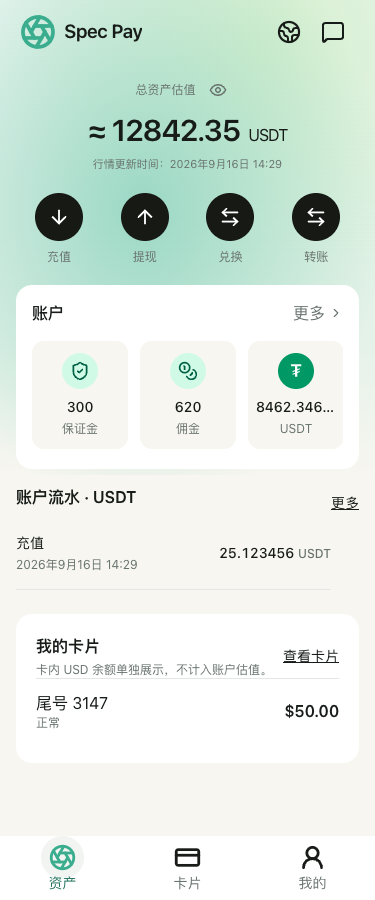
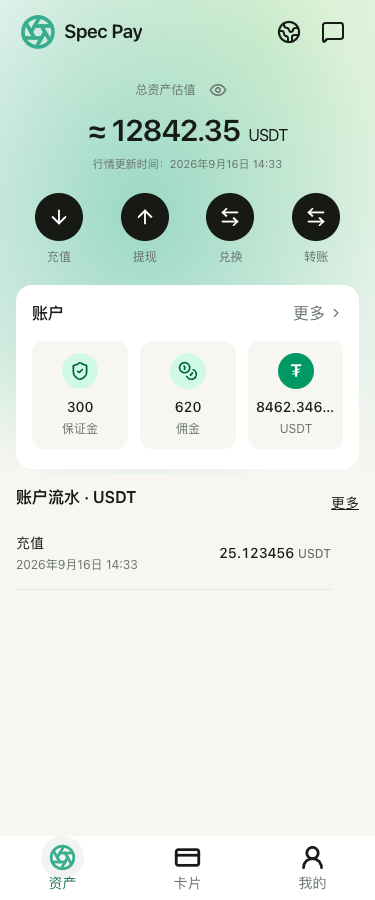
ui: remove card summary from asset homepage

diff --git a/resources/js/pages/user/Dashboard.tsx b/resources/js/pages/user/Dashboard.tsx
@@ -2,7 +2,7 @@ import { AssetCenter, type AssetOverview } from '@/components/user/AssetCenter';
 import { systemMoney } from '@/lib/system-money';
 import { t, useClientTranslation } from '@/i18n';
 import { Head, Link } from '@inertiajs/react';
-import { ArrowUpRight, ChevronRight, CreditCard } from 'lucide-react';
+import { ChevronRight } from 'lucide-react';
 import { UserBalanceHero } from '@/components/user/UserBalanceHero';
 import { UserActivityList } from '@/components/user/UserActivityList';
 import { walletActivityItems, type WalletActivity } from '@/lib/wallet-activity';
@@ -25,11 +25,6 @@ type WalletState = {
 };
 type Props = {
     assetOverview?: AssetOverview | null;
-    cardOverview: {
-        count: number;
-        pending: number;
-        items: { id: string; last4: string; balance: string | null; state: string }[];
-    };
     account: { displayName: string | null; status: string; verifiedChannel: string } | null;
     kycStatus: KycStatus;
     wallet: WalletState | null;
@@ -105,13 +100,7 @@ function NextStep({ kycStatus, wallet }: { kycStatus: KycStatus; wallet: WalletS
     return null;
 }
 
-export default function Dashboard({
-    kycStatus,
-    wallet,
-    activity = [],
-    cardOverview,
-    assetOverview,
-}: Props) {
+export default function Dashboard({ kycStatus, wallet, activity = [], assetOverview }: Props) {
     useClientTranslation();
     return (
         <UserLayout>
@@ -160,74 +149,6 @@ export default function Dashboard({
                     </div>
                 )}
                 <NextStep kycStatus={kycStatus} wallet={wallet} />
-                {cardOverview.count > 0 ? (
-                    <section className="rounded-2xl bg-surface p-5">
-                        <div className="flex items-center justify-between">
-                            <div>
-                                <h2 className="font-semibold">{t('My cards')}</h2>
-                                <p className="mt-1 text-xs text-muted-foreground">
-                                    {t('Card USD balances are excluded from the estimate.')}
-                                </p>
-                            </div>
-                            <Link href="/cards" className="py-2 text-sm underline">
-                                {t('View cards')}
-                            </Link>
-                        </div>
-                        {cardOverview.pending > 0 && (
-                            <Link href="/cards" className="block rounded-lg bg-muted p-3 text-sm">
-                                {t('Pending card operations: {{count}}', {
-                                    count: cardOverview.pending,
-                                })}
-                            </Link>
-                        )}
-                        {cardOverview.items.map((card) => (
-                            <Link
-                                href="/cards"
-                                key={card.id}
-                                className="flex items-center justify-between gap-3 border-t py-3"
-                            >
-                                <div>
-                                    <p>{t('Card ending in {{last4}}', { last4: card.last4 })}</p>
-                                    <p className="text-xs text-muted-foreground">{t(card.state)}</p>
-                                </div>
-                                <span className="font-semibold">
-                                    {card.balance === null
-                                        ? t('Pending sync')
-                                        : systemMoney(card.balance)}
-                                </span>
-                            </Link>
-                        ))}
-                    </section>
-                ) : (
-                    <Link
-                        href="/cards"
-                        className="user-feature-panel group flex items-center gap-4 bg-surface"
-                    >
-                        <div className="min-w-0 flex-1">
-                            <p className="text-xs font-semibold uppercase tracking-[.14em] text-muted-foreground">
-                                {t('Your everyday card')}
-                            </p>
-                            <h2 className="mt-2 text-xl font-semibold tracking-tight sm:text-2xl">
-                                {t('Explore your next card')}
-                            </h2>
-                            <p className="mt-2 text-sm leading-6 text-muted-foreground">
-                                {t('Manage your cards and explore available card products.')}
-                            </p>
-                            <span className="mt-4 inline-flex items-center gap-2 text-sm font-semibold">
-                                {t('View cards')}
-                                <ArrowUpRight className="size-4" aria-hidden="true" />
-                            </span>
-                        </div>
-                        <span className="user-feature-card" aria-hidden="true">
-                            <CreditCard
-                                className="size-10 sm:size-20"
-                                strokeWidth={1.4}
-                                aria-hidden="true"
-                            />
-                        </span>
-                    </Link>
-                )}
-
                 {!assetOverview && (
                     <div className="rounded-[var(--user-radius-lg)] bg-surface px-5 pt-5 pb-2 sm:px-7">
                         <UserSection

diff --git a/docs/architecture/MULTI_ASSET_CENTER.md b/docs/architecture/MULTI_ASSET_CENTER.md
@@ -52,6 +52,8 @@ compact white Accounts card. Account tiles scroll horizontally, with icon, amoun
 label stacked centrally. More opens the full account list; selecting an account opens
 a bottom sheet for its exact balance and existing actions instead of expanding the card.
 Only enabled actions appear; no scanner capability is implied.
+The Assets homepage omits the My cards summary and empty-card promotion; card
+balances and operations remain accessible through the bottom Cards navigation.
 
 The asset center shows original balances and indicative total in USDT, not a
 withdrawable total. Fiat and card USD balances are excluded. Missing quotes hide
